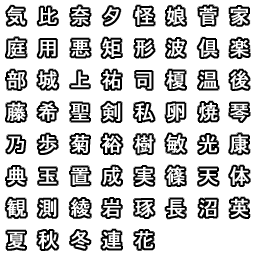
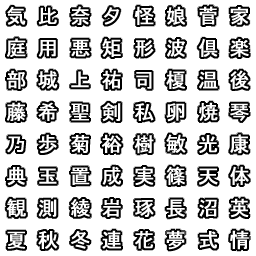
add characters
git-svn-id: https://svn.stepmania.com/svn/trunk@5205 822b03c2-8f45-0410-a444-95660a741a6f

Changed region(s): [[0.625, 0.875, 1.0, 1.0]]

diff --git a/stepmania/Utils/Font generation/Text.js b/stepmania/Utils/Font generation/Text.js
@@ -30,7 +30,7 @@ var OutputDir = "c:/temp/stepmania/utils/Font generation/Output/";
  * store prototypes for each font page.  These should just be PSD files that contain
  * a single text layer with the characters we want.  The orientation, font, etc.
  * don't matter; they'll be overridden. */
-var JAFontPages = Array("main", "kanji 1", "kanji 2","kanji 3");
+var JAFontPages = Array("main", "kanji 1", "kanji 2","kanji 3","kanji 4");
 var KRFontPages = Array("jamo 1", "jamo 2", "jamo 3", "jamo 4");
 
 var Fonts = new Array(
